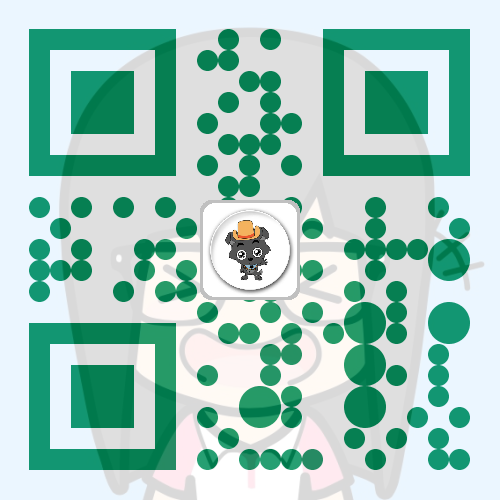
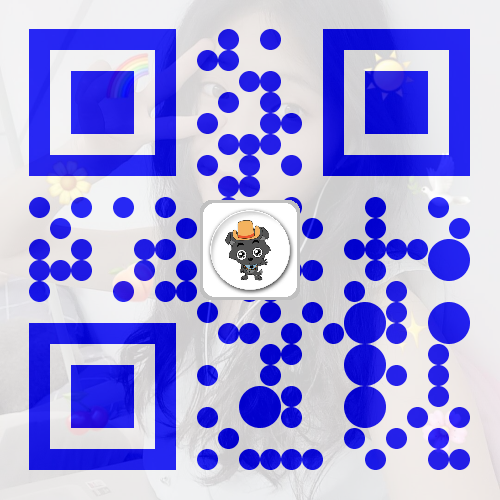
a

diff --git a/src/main/java/Test.java b/src/main/java/Test.java
@@ -20,8 +20,12 @@ public class Test {
             BufferedImage img = QrCodeGenWrapper.of("just for fun")
                     .setW(size)
                     .setH(size)
-//                    .setDetectImg("detect.png")
-                    .setDrawPreColor(0xff008e59)
+//                    .setDetectImg("/home/ht061/gocode/src/github.com/lurenjia528/zxingdemo/src/main/resources/detect.png") // 设置定位图标(角落图标)
+                    .setDrawPreColor(0xff0000ff)
+//                    .setDrawBgColor(0x00000000)
+//                    .setDetectOutColor(0xff00FF00)
+//                    .setDetectInColor(0x00000000)
+//                    .setDrawPreColor(0xff008e59)
 //                    .setDrawPreColor(0xff002fa7)
                     .setErrorCorrection(com.google.zxing.qrcode.decoder.ErrorCorrectionLevel.M)
                     .setLogoStyle(QrCodeOptions.LogoStyle.ROUND)
@@ -30,7 +34,9 @@ public class Test {
                     .setLogoRate(10)
                     .setDrawStyle(QrCodeOptions.DrawStyle.CIRCLE)
                     .setDrawEnableScale(true)
-                    .setBgImg("/home/ht061/ygt/code/zxingdemo/src/main/resources/bg.png")
+
+                    .setBgImg("/home/ht061/gocode/src/github.com/lurenjia528/zxingdemo/src/main/resources/bg.png")
+                    .setBgOpacity(0.8f) // 透明度
                     .asBufferedImage();
             ImageIO.write(img, "png", new File("src/main/resources/style.png"));
         } catch (IOException e) {
